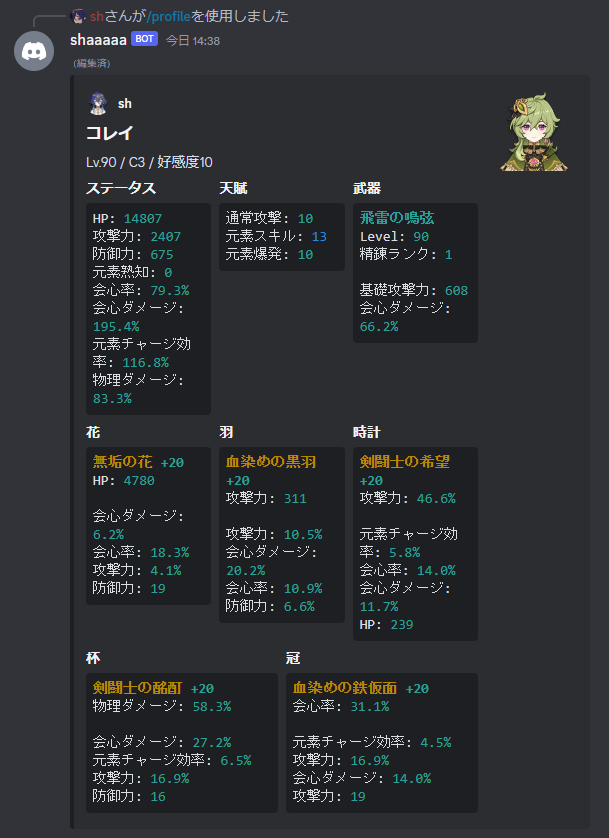
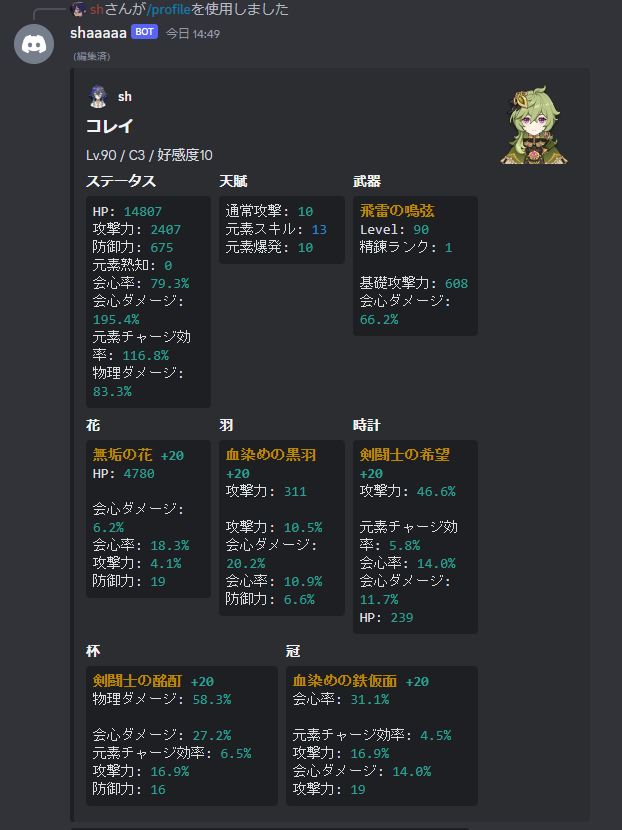
色変え忘れてた

diff --git a/cogs/profile.py b/cogs/profile.py
@@ -143,7 +143,7 @@ def create_character_embed(data, character: CharacterInfo):
     )
 
     texts = [
-        f'\u001b[1;36m{weapon.detail.name}',
+        f'\u001b[1;33m{weapon.detail.name}',
         f'\u001b[0mLevel: \u001b[36m{weapon.level}',
         f'\u001b[0m精錬ランク: \u001b[36m{weapon.refinement}',
         '',
